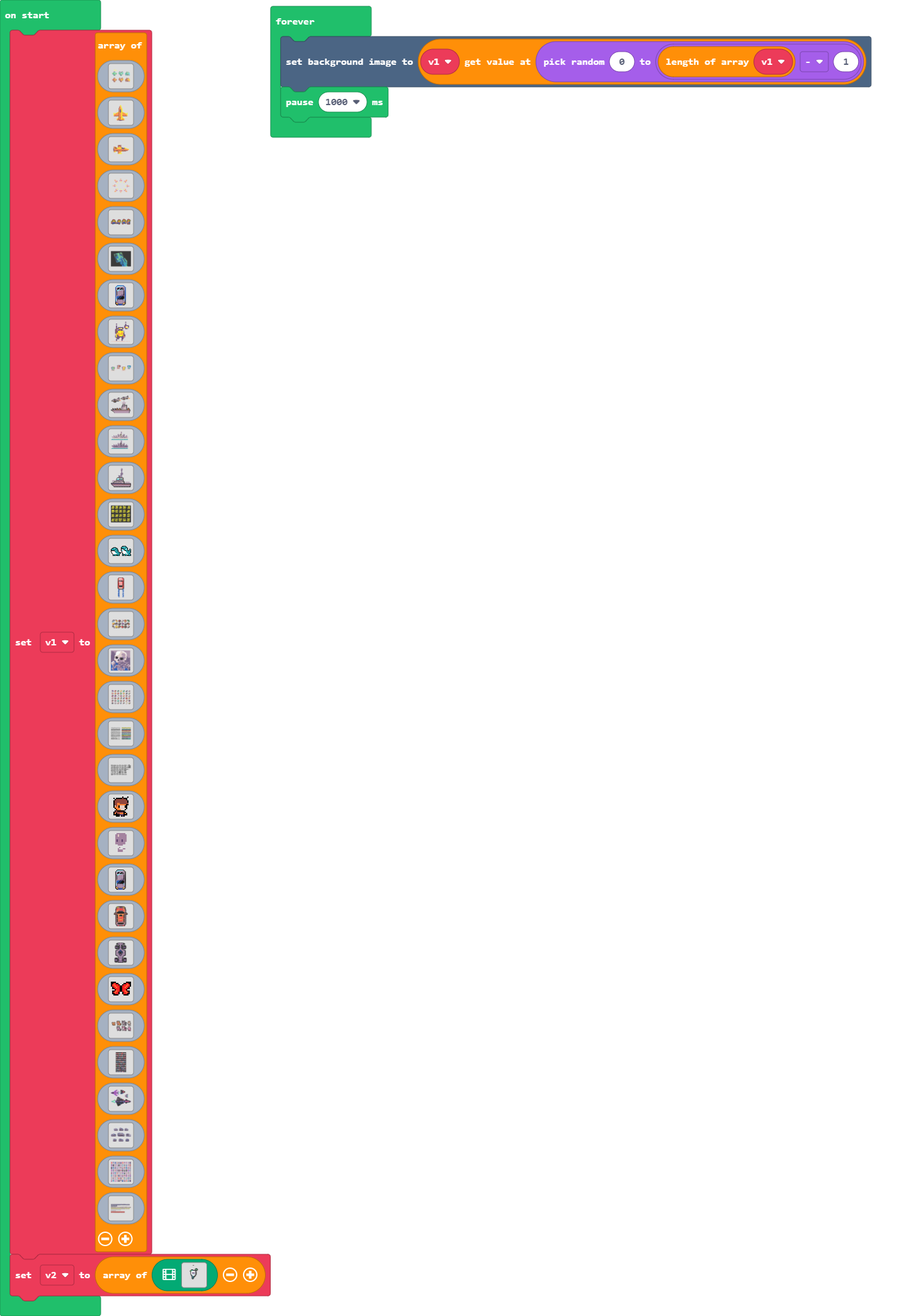
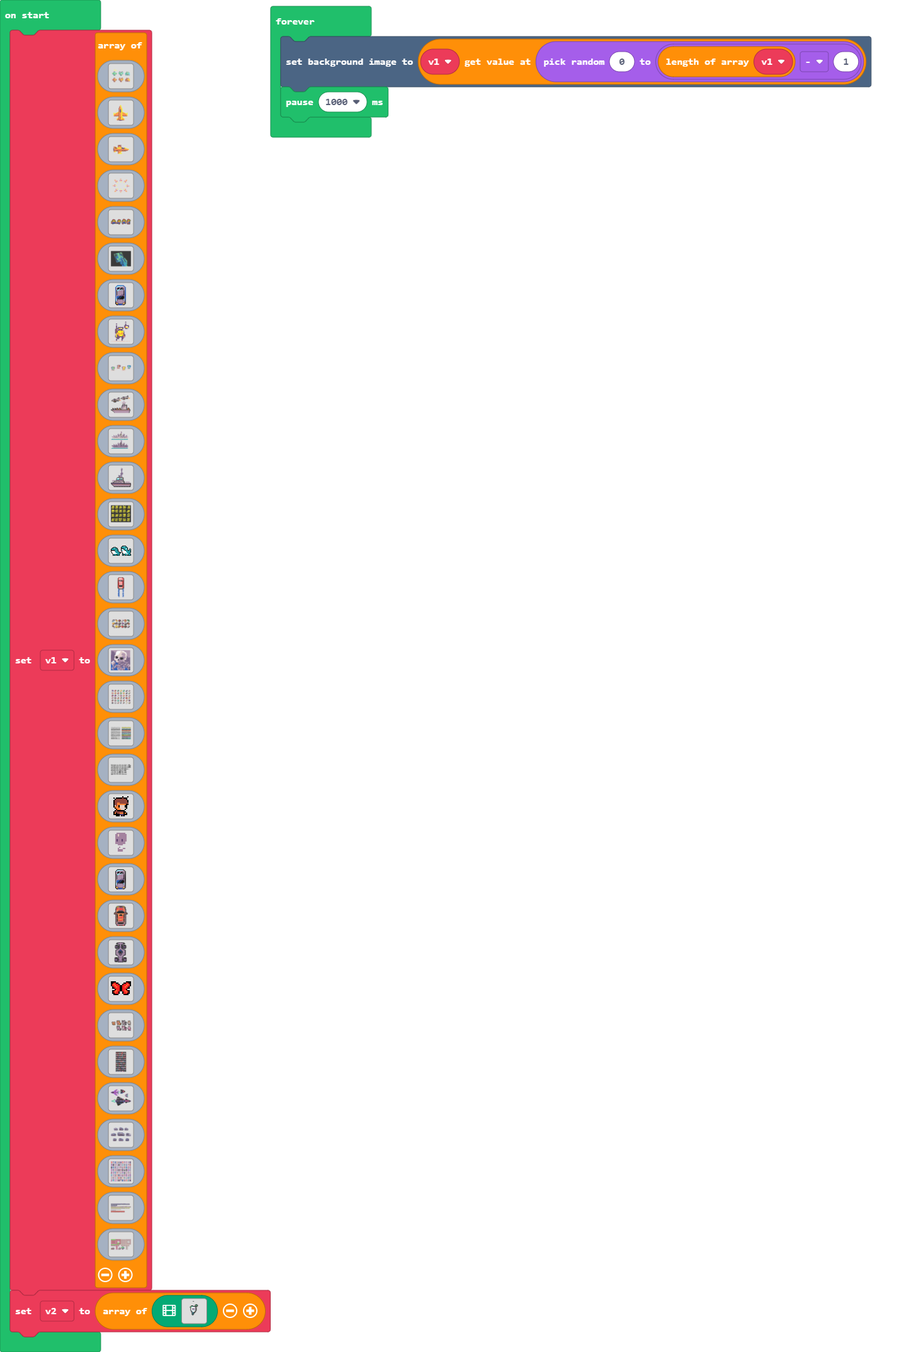
Update main.blocks, main.ts, images.g.jres, images.g.ts

diff --git a/main.ts b/main.ts
@@ -2169,6 +2169,104 @@ img`
     .fffffff2222fff..fffff2222fffff..fff2222fffffff..f2222fffffffff..f2222ffff2222f..f2222fffffffff..fff2222fffffff..fffff2222fffff..fffffff2222fff..fffffffff2222f..fffffff2222fff..................................................................................
     ...fffff2222f........f2222f........f2222fffff....f2222f..ffffff..f2222f..f2222f..f2222f..ffffff....f2222fffff........f2222f........fffff2222f....ffffff..f2222f....fffff2222f....................................................................................
     ...ffffffffff........ffffff........ffffffffff....ffffff..ffffff..ffffff..ffffff..ffffff..ffffff....ffffffffff........ffffff........ffffffffff....ffffff..ffffff....ffffffffff....................................................................................
+    `,
+img`
[16 lines of base64/hex data omitted]
+    3333ec3e33eeeeeeeeeeeeee33eeeeeeeeeeeeee33eecc33eeeeeeee33eecc33................3333ec3e33eeeeeeddddddcbbbbbbbbbbbbbbbbbbbbbbbbbbbbbbbbbbcddddddbbbbbbbbbcdddddd................ddddddcbbbbbbbbb
+    3ccceecc33ee33eeee333eec33ee33eeee333eec33eec333ee333eec33eec333................3ccceecc33ee33eebbbccccbbbbbbbbbbbbbbbbbbbbbbbbbbbbbbbbbbccccbbbbbbbbbbbbccccbbb................bbbccccbbbbbbbbb
+    3cc3eeeeccee333eee333eeeccee333eee333eeeccee3333ee333eeeccee3333................3cc3eeeeccee333edbbcbbbbbbbbbbbbbbbbbbbbbbbbbbbbbbbbbbbbbbbbcbbdbbbbbbbbbbbbcbbd................dbbcbbbbbbbbbbbb
+    33333eeeeeeec33eee33ceeeeeeec33eee33ceeeeeeec333ee33ceeeeeeec333................33333eeeeeeec33ebbbcbbbbbbbbbbbbbbbbbbbbbbbbbbbbbbbbbbbbbbbbcbbbbbbbbbbbbbbbcbbb................bbbcbbbbbbbbbbbb
+    33333e33eeeecceeeeecceeeeeeecceeeeeccee333e3cc33eeeccee333e3cc33................33333e33eeeecceeddbccbbbbbbbbbbbbbbbbbbbbbbbbbbbbbbbbbbbbbbccbddbbbbbbbbbbbccbdd................ddbccbbbbbbbbbbb
+    333ce333eeeeeeeeeeeeeeeeeeeeeeeeeeeeee3333ccecc3eeeeee3333ccecc3................333ce333eeeeeeeedddddddcbbbbbbbbbbbbbbbbbbbbbbbbbbbbbbbbcdddddddbbbbbbbbcddddddd................dddddddcbbbbbbbb
+    3333ec33eeeeeeeeeeeeeeeeeeeeeeeeeeeeee3c33ee3cc3eeeeee3c33ee3cc3................3333ec33eeeeeeeedddddddcbbbbbbbbbbbbbbbbbbbbbbbbbbbbbbbbcdddddddbbbbbbbbcddddddd................dddddddcbbbbbbbb
+    3c33ecceee333eeeeeeeeeeeee333eeeeeeeeeecceee3333eeeeeeecceee3333................3c33ecceee333eeedddbbbbcbbbbbbbbbbbbbbbbbbbbbbbbbbbbbbbbcbbbbdddbbbbbbbbcbbbbddd................dddbbbbcbbbbbbbb
+    3ccceeeeee333eee33eeeeeeee333eee33eeeeeeeee3cc3333eeeeeeeee3cc33................3ccceeeeee333eeebbbbbcccbbbbbbbbbbbbbbbbbbbbbbbbbbbbbbbbcccbbbbbbbbbbbbbcccbbbbb................bbbbbcccbbbbbbbb
+    333ceee33e33cee333eee333ee33cee333eee333eee3c33333eee333eee3c333................333ceee33e33cee3bbbbbcbbbbbbbbbbbbbbbbbbbbbbbbbbbbbbbbbbbbcbbbbbbbbbbbbbbbcbbbbb................bbbbbcbbbbbbbbbb
+    333cee333eeccee3ccee3333eeeccee3ccee333333eee333ccee333333eee333................333cee333eeccee3bbbbccbbbbbbbbbbbbbbbbbbbbbbbbbbbbbbbbbbbbccbbbbbbbbbbbbbbccbbbb................bbbbccbbbbbbbbbb
+    3333c3333eeeeeeeeeeec333eeeeeeeeeeeec3333ceeccc3eeeec3333ceeccc3................3333c3333eeeeeeedddbcbbbbbbbbbbbbbbbbbbbbbbbbbbbbbbbbbbbbbbcbdddbbbbbbbbbbbcbddd................dddbcbbbbbbbbbbb
+    3cc33c33cee33eeeeeeeec33eee33eeeeeeeec33ceeeccc3eeeeec33ceeeccc3................3cc33c33cee33eeebbbbcbbbbbbbbbbbbbbbbbbbbbbbbbbbbbbbbbbbbbbcbbbbbbbbbbbbbbbcbbbb................bbbbcbbbbbbbbbbb
+    3c333ccceee333eee33eeccceee333eee33eeccceee33333e33eeccceee33333................3c333ccceee333eebdddddcbbbbbbbbbbbbbbbbbbbbbbbbbbbbbbbbbbcdddddbbbbbbbbbbcdddddb................bdddddcbbbbbbbbb
+    333ceeeeeeeecceee3ceeeeeeeeecceee3ceeeeeeee33c33e3ceeeeeeee33c33................333ceeeeeeeecceeddddddcbbbbbbbbbbbbbbbbbbbbbbbbbbbbbbbbbbcddddddbbbbbbbbbcdddddd................ddddddcbbbbbbbbb
+    3333e33eeeeeeeeeeeeeeeeeeeeeeeeeeeeeeeeeeeecce33eeeeeeeeeeecce33................3333e33eeeeeeeeeddddddcbbbbbbbbbbbbbbbbbbbbbbbbbbbbbbbbbbcddddddbbbbbbbbbcdddddd................ddddddcbbbbbbbbb
[16 lines of base64/hex data omitted]
+    7777777777777777777777777777777777777777777777777777777777777777777777777777777.................dddddddddddddddddddbdddddddddddddddbdddddddddddddddddddbbddddddddddddddbbddddddd................
+    77777777777777777777777777777777777777777777777c777777777777777c777777777777777c................ddddddddbbbbdddddbbbddddbbbbdddddbbbddddbddddbbbddddddddbddddbbbddddddddbddddbbb................
+    c777777777777777777777777777777777777777777777ccc7777777777777ccc7777777777777cc................bbbddddbbddbdddbbbbbddbbbddbdddbbbbbddbbbddddbddbbbddddbbddddbddbbbddddbbddddbdd................
+    cc7777777777777777777777777777777777777777777cc3cc77777777777cc3cc77777777777cc3................bbbddddbbbbbdddbcccbddbbbbbbdddbcccbddbbbbbbdbddbbbddddbbbbbdbddbbbddddbbbbbdbdd................
+    3e777777777777777777777777777777777777777777cce33e7777777777cce33e7777777777cce3................bbbddddbcccbdddcbbbcddbbcccbdddcbbbcddbbbcccbbbdbbbddddbcbbbbbbdbbbddddbcbbbbbbd................
+    ccc7777777777777777777777777777777777777777c7c33ccc77777777c7c33ccc77777777c7c33................dbbccbbbbbbcdddcbbbcccccbbbcdddcbbbcccccccbcbbbddbbbbbbcccccbbbddbbbbbbcccccbbbd................
+    ccecc7c77777c777c7cc77c77777c777c7cc77c77ccc77c3ccecc7c77ccc77c3ccecc7c77ccc77c3................dbbbbcccbbbcccccbbbbbbbbbbbcccccbbbbbbbbbbbcbddddbbbbcccbbbcbddddbbbbcccbbbcbddd................
+    33eecccc77ccc77ccc777ccc77ccc77ccc777ccc77ccce3333eecccc7cccc33333eecccc7cccc333................dddddcbbbbbbbbbbbbbbbbbbbbbbbbbbbbbbbbbbbbbcbbbbdddddcbbbbbcbbbbdddddcbbbbbcbbbb................
+    c3cccccc7ccccccccc77cccc7ccccccccc77cccc7cee333333ce3ccccceec333333eeeeeee333c33................bbbbbccbbbbbbbbbbbbbbbbbbbbbbbbbbbbbbbbbbbbcddddbbbbbcbbbbcbbbbbbbbbbccbbcbbdddd................
+    33cce333ccccecccccceeeccccccecccccceeeccecc3ccc33cce33eeeeeeec3333cce333ecc3ccc3................ddbbbbcbbbbbbbbbbbbbbbbbbbbbbbbbbbbbbbbbbcbbddddbbbbbcbbbbcbbbbbddbbbbcbbcbbdddd................
+    cccc3333eecc3333ccee3333eecc3333ccee3333eccc33cc333cee3333eee333cccc3333eccc33cc................ddddbbcbbbbcdddcbbbbbbbcbbbcdddcbbbbbbbcbcbbbdddbbbbccbbbbccbbbbddddbbcbbcbbbddd................
+    3333c333cee3333c3333c333cee3333c3333c333cee3333c3333c3333ceeccc33333c333cee3333c................ddddbbcccbbcddbcbbbbddbccbbcddbcbbbbddbccccbccbbdddbcbbbbbbcbdddddddbbccbccbbccb................
+    3333ec33c3e3333c3333ec33c3e3333c3333ec33c3e3333c3cc33c33ceeeccc33333ec33c3e3333c................ddddbbcbbbbcddbbcccbddbbbbbcddbbcccbddbbbbcbbdddbbbbcbbbbbbcbbbbdbbbbbcbddcbbddd................
+    333cecccc3c3333c333cecccc3c3333c333cecccc3c3333c3c333ccceee33333333cecccc3c3333c................ddbcccbbbddcbdbbbbbbddbbbddcbdbbbbbbddbbbbbbbbbdbdddddcbbcdddddbddbcccbbbdbbbbbd................
+    c33ccccc33cccccce33ccccc33cccccce33ccccc33cccccc333ceeeeeee33c33c33ccccc33cccccc................ddcddbbbbccbbddddbbcddddbccbbddddbbcbdddbbbbbbddddddddcbbcddddddddcddbbbbbcbbbdd................
+    cccccccccccccccccccccccccccccccccccccccccccccccc3333e33eeeecce33cccccccccccccccc................bbcdbbbbbbbbbbbbbbbcccbbbbbbbbbbbbbcccbbbbcccbddddddddcbbcddddddbbcdbbbbbbcccbdd................
+    ................................................3333ec3e33eecc33................................................................................ddddddcbbcdddddd................................
+    ................................................3ccceecc33eec333................................................................................bbbccccbbccccbbb................................
+    ................................................3cc3eeeeccee3333................................................................................dbbcbbbbbbbbcbbd................................
+    ................................................33333eeeeeeec333................................................................................bbbcbbbbbbbbcbbb................................
+    ................................................33333e3333e3cc33................................................................................ddbccbbbbbbccbdd................................
+    ................................................333ce33333ccecc3............................................ffffffff............................dddddddccddddddd................................
+    ................................................3333ec3333ee3cc3..........................................ff66666cccf...........................dddddddccddddddd................................
+    ................................................3c33ecceceee3333.........................................f66666767cccff.........................dddbbbbccbbbbddd................................
+    ................................................3ccceeeeeee3cc33.........................................f6776777776666ff.......................bbbbbccccccbbbbb................................
+    ................................................333ceee3eee3c333........................................f67777676eee67777f......................bbbbbcbbbbcbbbbb................................
+    ................................................333cee3333eee333.......................................f766776666eee777777f.....................bbbbccbbbbccbbbb................................
+    ................................................3333c3333ceeccc3......................................f7777766667eee777777f.....................dddbcbbbbbbcbddd................................
+    ................................................3cc33c33ceeeccc3.....................................ff7777776677777777777cf....................bbbbcbbbbbbcbbbb................................
+    ................................................3c333ccceee33333....................................f6677777767777777777776bf...................bdddddcbbcdddddb................................
+    ................................................333ceeeeeee33c33..................ffff.............f77777777766777777777766c6f..................ddddddcbbcdddddd................................
+    ................................................3333e33eeeecce33................ffddddfff.........f7777777777667777776676666c6f.................ddddddcbbcdddddd................................
+    .................fffffffffffff..................3333ec3e33eecc33.............fffdddddbcccf........f777777777eee7777766777666ccf.................ddddddcbbcdddddd................................
+    ........ff.ff...ff3333eeeeeecff.................3ccceecc33eec333............fdcccdddbbbcccf.......f777777676eee67666766766666cf.................bbbccccbbccccbbb................................
+    .....fffd3fe3f..feeeccccecccccf.................3cc3eeeeccee3333...........fddddbccdbbbcccf.......f777777666eeec66677766666666f.................dbbcbbbbbbbbcbbd................................
+    .....fd3ede3cef.fbdddddddbdbbbf.................33333eeeeeeec333..........fddbbbbccddddcccf........f7777eee666cc666676ccc6666cf.................bbbcbbbbbbbbcbbb................................
+    ......ffceccff..fbbdddbbbbbbbbf.................33333e3333e3cc33.........fbbbbbbbcccccccccf.........f677eee6666ccc6666ccc6666bf.................ddbccbbbbbbccbdd................................
+    .....ffdcccbf...ffcccccccccccff.................333ce33333ccecc3.........fbbbbbbbdcbbbcccccf........fcc7eee666ccc666c6ccccc6c6f.................dddddddccddddddd................................
+    ....fd3ee3ccf...f33333eeeeecccf.................33eeec333eeeee33........fbbbbddddcbbbbcccccf.........fc666c666cccc6cccc666ccc6f.................dddddddccddddddd................................
+    ....fceeee3ccf..fee3ccceccccccf.................3e3eeeccee333333.......fbbbbdccccbbbbbcccccf..........fc6ccc6ccccc66cc666ccc6f..................dddbbbbccbbbbddd................................
+    ..ff3ee5eeeecff.feccecccccccccf.................333eeeeeee333c33.......fbbbbbcbbbbbbbbcccccf...........fccccccccccccccc6ccc6f...................bbbbbcccccbbdddd................................
+    .fedee555ecccbf.feeeeeeeeeceeef.................33cce333ecc3ccc3......fbbbbbbbbbbbbbbbcccccf............fffccffccbccccccccbf....................ddbbbbcbbcbbdddd................................
+    fed3ee55eeecccf.fbdddddddbdbbbf.................cccc3333eccc33cc......fbbbbbbbbbbbbbbbcccccf..............fccffeccbbcbbbbbf.....................ddddbbcbbcbbbddd................................
+    f3eeee555eebcff.fbbdddbbbbbbbbf.................3333c333cee3333c......fccbbbbbbbbbbbbccccccf...............feececcffffffff......................ddddbbcbbccbbccb................................
+    f3eeeee55ebcccf.ffcccccccccccff.................3333ec33c3e3333c......fcccbccccccbbbbccccccf................ffccccf.............................dbbbbbcbddcbbddd................................
+    feeeee555ccccbf.fcccccccccccccf.................333cecccc3c3333c......fcccbbbbbbbbbbbccccccf................ffecccf.............................ddbcccbbbdbbbbbd................................
+    .feeccc5cccbbcf.ffcccccccccccff.................c33ccccc33cccccc.......fccbbbbbbccccccccccf................ffeeccfff............................ddcddbbbbbcbbbdd................................
+    .fffffffffffff...fffffffffffff..................cccccccccccccccc........ffffffffffffffffff.................feecccccf............................bbcdbbbbbbcccbdd................................
     `
 ]
 let v2 = [[img`

diff --git a/images.g.ts b/images.g.ts
@@ -2433,6 +2433,104 @@ beaaaaaa.....97666666.....beaaaaaa.....1dbbbbbb.....ccffffff.....ddddbbbb.....66
 ...fffff2222f........f2222f........f2222fffff....f2222f..ffffff..f2222f..f2222f..f2222f..ffffff....f2222fffff........f2222f........fffff2222f....ffffff..f2222f....fffff2222f....................................................................................
 ...ffffffffff........ffffff........ffffffffff....ffffff..ffffff..ffffff..ffffff..ffffff..ffffff....ffffffffff........ffffff........ffffffffff....ffffff..ffffff....ffffffffff....................................................................................
 `;
+            case "image6":return img`
[16 lines of base64/hex data omitted]
+3333ec3e33eeeeeeeeeeeeee33eeeeeeeeeeeeee33eecc33eeeeeeee33eecc33................3333ec3e33eeeeeeddddddcbbbbbbbbbbbbbbbbbbbbbbbbbbbbbbbbbbcddddddbbbbbbbbbcdddddd................ddddddcbbbbbbbbb
+3ccceecc33ee33eeee333eec33ee33eeee333eec33eec333ee333eec33eec333................3ccceecc33ee33eebbbccccbbbbbbbbbbbbbbbbbbbbbbbbbbbbbbbbbbccccbbbbbbbbbbbbccccbbb................bbbccccbbbbbbbbb
+3cc3eeeeccee333eee333eeeccee333eee333eeeccee3333ee333eeeccee3333................3cc3eeeeccee333edbbcbbbbbbbbbbbbbbbbbbbbbbbbbbbbbbbbbbbbbbbbcbbdbbbbbbbbbbbbcbbd................dbbcbbbbbbbbbbbb
+33333eeeeeeec33eee33ceeeeeeec33eee33ceeeeeeec333ee33ceeeeeeec333................33333eeeeeeec33ebbbcbbbbbbbbbbbbbbbbbbbbbbbbbbbbbbbbbbbbbbbbcbbbbbbbbbbbbbbbcbbb................bbbcbbbbbbbbbbbb
+33333e33eeeecceeeeecceeeeeeecceeeeeccee333e3cc33eeeccee333e3cc33................33333e33eeeecceeddbccbbbbbbbbbbbbbbbbbbbbbbbbbbbbbbbbbbbbbbccbddbbbbbbbbbbbccbdd................ddbccbbbbbbbbbbb
+333ce333eeeeeeeeeeeeeeeeeeeeeeeeeeeeee3333ccecc3eeeeee3333ccecc3................333ce333eeeeeeeedddddddcbbbbbbbbbbbbbbbbbbbbbbbbbbbbbbbbcdddddddbbbbbbbbcddddddd................dddddddcbbbbbbbb
+3333ec33eeeeeeeeeeeeeeeeeeeeeeeeeeeeee3c33ee3cc3eeeeee3c33ee3cc3................3333ec33eeeeeeeedddddddcbbbbbbbbbbbbbbbbbbbbbbbbbbbbbbbbcdddddddbbbbbbbbcddddddd................dddddddcbbbbbbbb
+3c33ecceee333eeeeeeeeeeeee333eeeeeeeeeecceee3333eeeeeeecceee3333................3c33ecceee333eeedddbbbbcbbbbbbbbbbbbbbbbbbbbbbbbbbbbbbbbcbbbbdddbbbbbbbbcbbbbddd................dddbbbbcbbbbbbbb
+3ccceeeeee333eee33eeeeeeee333eee33eeeeeeeee3cc3333eeeeeeeee3cc33................3ccceeeeee333eeebbbbbcccbbbbbbbbbbbbbbbbbbbbbbbbbbbbbbbbcccbbbbbbbbbbbbbcccbbbbb................bbbbbcccbbbbbbbb
+333ceee33e33cee333eee333ee33cee333eee333eee3c33333eee333eee3c333................333ceee33e33cee3bbbbbcbbbbbbbbbbbbbbbbbbbbbbbbbbbbbbbbbbbbcbbbbbbbbbbbbbbbcbbbbb................bbbbbcbbbbbbbbbb
+333cee333eeccee3ccee3333eeeccee3ccee333333eee333ccee333333eee333................333cee333eeccee3bbbbccbbbbbbbbbbbbbbbbbbbbbbbbbbbbbbbbbbbbccbbbbbbbbbbbbbbccbbbb................bbbbccbbbbbbbbbb
+3333c3333eeeeeeeeeeec333eeeeeeeeeeeec3333ceeccc3eeeec3333ceeccc3................3333c3333eeeeeeedddbcbbbbbbbbbbbbbbbbbbbbbbbbbbbbbbbbbbbbbbcbdddbbbbbbbbbbbcbddd................dddbcbbbbbbbbbbb
+3cc33c33cee33eeeeeeeec33eee33eeeeeeeec33ceeeccc3eeeeec33ceeeccc3................3cc33c33cee33eeebbbbcbbbbbbbbbbbbbbbbbbbbbbbbbbbbbbbbbbbbbbcbbbbbbbbbbbbbbbcbbbb................bbbbcbbbbbbbbbbb
+3c333ccceee333eee33eeccceee333eee33eeccceee33333e33eeccceee33333................3c333ccceee333eebdddddcbbbbbbbbbbbbbbbbbbbbbbbbbbbbbbbbbbcdddddbbbbbbbbbbcdddddb................bdddddcbbbbbbbbb
+333ceeeeeeeecceee3ceeeeeeeeecceee3ceeeeeeee33c33e3ceeeeeeee33c33................333ceeeeeeeecceeddddddcbbbbbbbbbbbbbbbbbbbbbbbbbbbbbbbbbbcddddddbbbbbbbbbcdddddd................ddddddcbbbbbbbbb
+3333e33eeeeeeeeeeeeeeeeeeeeeeeeeeeeeeeeeeeecce33eeeeeeeeeeecce33................3333e33eeeeeeeeeddddddcbbbbbbbbbbbbbbbbbbbbbbbbbbbbbbbbbbcddddddbbbbbbbbbcdddddd................ddddddcbbbbbbbbb
[16 lines of base64/hex data omitted]
+7777777777777777777777777777777777777777777777777777777777777777777777777777777.................dddddddddddddddddddbdddddddddddddddbdddddddddddddddddddbbddddddddddddddbbddddddd................
+77777777777777777777777777777777777777777777777c777777777777777c777777777777777c................ddddddddbbbbdddddbbbddddbbbbdddddbbbddddbddddbbbddddddddbddddbbbddddddddbddddbbb................
+c777777777777777777777777777777777777777777777ccc7777777777777ccc7777777777777cc................bbbddddbbddbdddbbbbbddbbbddbdddbbbbbddbbbddddbddbbbddddbbddddbddbbbddddbbddddbdd................
+cc7777777777777777777777777777777777777777777cc3cc77777777777cc3cc77777777777cc3................bbbddddbbbbbdddbcccbddbbbbbbdddbcccbddbbbbbbdbddbbbddddbbbbbdbddbbbddddbbbbbdbdd................
+3e777777777777777777777777777777777777777777cce33e7777777777cce33e7777777777cce3................bbbddddbcccbdddcbbbcddbbcccbdddcbbbcddbbbcccbbbdbbbddddbcbbbbbbdbbbddddbcbbbbbbd................
+ccc7777777777777777777777777777777777777777c7c33ccc77777777c7c33ccc77777777c7c33................dbbccbbbbbbcdddcbbbcccccbbbcdddcbbbcccccccbcbbbddbbbbbbcccccbbbddbbbbbbcccccbbbd................
+ccecc7c77777c777c7cc77c77777c777c7cc77c77ccc77c3ccecc7c77ccc77c3ccecc7c77ccc77c3................dbbbbcccbbbcccccbbbbbbbbbbbcccccbbbbbbbbbbbcbddddbbbbcccbbbcbddddbbbbcccbbbcbddd................
+33eecccc77ccc77ccc777ccc77ccc77ccc777ccc77ccce3333eecccc7cccc33333eecccc7cccc333................dddddcbbbbbbbbbbbbbbbbbbbbbbbbbbbbbbbbbbbbbcbbbbdddddcbbbbbcbbbbdddddcbbbbbcbbbb................
+c3cccccc7ccccccccc77cccc7ccccccccc77cccc7cee333333ce3ccccceec333333eeeeeee333c33................bbbbbccbbbbbbbbbbbbbbbbbbbbbbbbbbbbbbbbbbbbcddddbbbbbcbbbbcbbbbbbbbbbccbbcbbdddd................
+33cce333ccccecccccceeeccccccecccccceeeccecc3ccc33cce33eeeeeeec3333cce333ecc3ccc3................ddbbbbcbbbbbbbbbbbbbbbbbbbbbbbbbbbbbbbbbbcbbddddbbbbbcbbbbcbbbbbddbbbbcbbcbbdddd................
+cccc3333eecc3333ccee3333eecc3333ccee3333eccc33cc333cee3333eee333cccc3333eccc33cc................ddddbbcbbbbcdddcbbbbbbbcbbbcdddcbbbbbbbcbcbbbdddbbbbccbbbbccbbbbddddbbcbbcbbbddd................
+3333c333cee3333c3333c333cee3333c3333c333cee3333c3333c3333ceeccc33333c333cee3333c................ddddbbcccbbcddbcbbbbddbccbbcddbcbbbbddbccccbccbbdddbcbbbbbbcbdddddddbbccbccbbccb................
+3333ec33c3e3333c3333ec33c3e3333c3333ec33c3e3333c3cc33c33ceeeccc33333ec33c3e3333c................ddddbbcbbbbcddbbcccbddbbbbbcddbbcccbddbbbbcbbdddbbbbcbbbbbbcbbbbdbbbbbcbddcbbddd................
+333cecccc3c3333c333cecccc3c3333c333cecccc3c3333c3c333ccceee33333333cecccc3c3333c................ddbcccbbbddcbdbbbbbbddbbbddcbdbbbbbbddbbbbbbbbbdbdddddcbbcdddddbddbcccbbbdbbbbbd................
+c33ccccc33cccccce33ccccc33cccccce33ccccc33cccccc333ceeeeeee33c33c33ccccc33cccccc................ddcddbbbbccbbddddbbcddddbccbbddddbbcbdddbbbbbbddddddddcbbcddddddddcddbbbbbcbbbdd................
+cccccccccccccccccccccccccccccccccccccccccccccccc3333e33eeeecce33cccccccccccccccc................bbcdbbbbbbbbbbbbbbbcccbbbbbbbbbbbbbcccbbbbcccbddddddddcbbcddddddbbcdbbbbbbcccbdd................
+................................................3333ec3e33eecc33................................................................................ddddddcbbcdddddd................................
+................................................3ccceecc33eec333................................................................................bbbccccbbccccbbb................................
+................................................3cc3eeeeccee3333................................................................................dbbcbbbbbbbbcbbd................................
+................................................33333eeeeeeec333................................................................................bbbcbbbbbbbbcbbb................................
+................................................33333e3333e3cc33................................................................................ddbccbbbbbbccbdd................................
+................................................333ce33333ccecc3............................................ffffffff............................dddddddccddddddd................................
+................................................3333ec3333ee3cc3..........................................ff66666cccf...........................dddddddccddddddd................................
+................................................3c33ecceceee3333.........................................f66666767cccff.........................dddbbbbccbbbbddd................................
+................................................3ccceeeeeee3cc33.........................................f6776777776666ff.......................bbbbbccccccbbbbb................................
+................................................333ceee3eee3c333........................................f67777676eee67777f......................bbbbbcbbbbcbbbbb................................
+................................................333cee3333eee333.......................................f766776666eee777777f.....................bbbbccbbbbccbbbb................................
+................................................3333c3333ceeccc3......................................f7777766667eee777777f.....................dddbcbbbbbbcbddd................................
+................................................3cc33c33ceeeccc3.....................................ff7777776677777777777cf....................bbbbcbbbbbbcbbbb................................
+................................................3c333ccceee33333....................................f6677777767777777777776bf...................bdddddcbbcdddddb................................
+................................................333ceeeeeee33c33..................ffff.............f77777777766777777777766c6f..................ddddddcbbcdddddd................................
+................................................3333e33eeeecce33................ffddddfff.........f7777777777667777776676666c6f.................ddddddcbbcdddddd................................
+.................fffffffffffff..................3333ec3e33eecc33.............fffdddddbcccf........f777777777eee7777766777666ccf.................ddddddcbbcdddddd................................
+........ff.ff...ff3333eeeeeecff.................3ccceecc33eec333............fdcccdddbbbcccf.......f777777676eee67666766766666cf.................bbbccccbbccccbbb................................
+.....fffd3fe3f..feeeccccecccccf.................3cc3eeeeccee3333...........fddddbccdbbbcccf.......f777777666eeec66677766666666f.................dbbcbbbbbbbbcbbd................................
+.....fd3ede3cef.fbdddddddbdbbbf.................33333eeeeeeec333..........fddbbbbccddddcccf........f7777eee666cc666676ccc6666cf.................bbbcbbbbbbbbcbbb................................
+......ffceccff..fbbdddbbbbbbbbf.................33333e3333e3cc33.........fbbbbbbbcccccccccf.........f677eee6666ccc6666ccc6666bf.................ddbccbbbbbbccbdd................................
+.....ffdcccbf...ffcccccccccccff.................333ce33333ccecc3.........fbbbbbbbdcbbbcccccf........fcc7eee666ccc666c6ccccc6c6f.................dddddddccddddddd................................
+....fd3ee3ccf...f33333eeeeecccf.................33eeec333eeeee33........fbbbbddddcbbbbcccccf.........fc666c666cccc6cccc666ccc6f.................dddddddccddddddd................................
+....fceeee3ccf..fee3ccceccccccf.................3e3eeeccee333333.......fbbbbdccccbbbbbcccccf..........fc6ccc6ccccc66cc666ccc6f..................dddbbbbccbbbbddd................................
+..ff3ee5eeeecff.feccecccccccccf.................333eeeeeee333c33.......fbbbbbcbbbbbbbbcccccf...........fccccccccccccccc6ccc6f...................bbbbbcccccbbdddd................................
+.fedee555ecccbf.feeeeeeeeeceeef.................33cce333ecc3ccc3......fbbbbbbbbbbbbbbbcccccf............fffccffccbccccccccbf....................ddbbbbcbbcbbdddd................................
+fed3ee55eeecccf.fbdddddddbdbbbf.................cccc3333eccc33cc......fbbbbbbbbbbbbbbbcccccf..............fccffeccbbcbbbbbf.....................ddddbbcbbcbbbddd................................
+f3eeee555eebcff.fbbdddbbbbbbbbf.................3333c333cee3333c......fccbbbbbbbbbbbbccccccf...............feececcffffffff......................ddddbbcbbccbbccb................................
+f3eeeee55ebcccf.ffcccccccccccff.................3333ec33c3e3333c......fcccbccccccbbbbccccccf................ffccccf.............................dbbbbbcbddcbbddd................................
+feeeee555ccccbf.fcccccccccccccf.................333cecccc3c3333c......fcccbbbbbbbbbbbccccccf................ffecccf.............................ddbcccbbbdbbbbbd................................
+.feeccc5cccbbcf.ffcccccccccccff.................c33ccccc33cccccc.......fccbbbbbbccccccccccf................ffeeccfff............................ddcddbbbbbcbbbdd................................
+.fffffffffffff...fffffffffffff..................cccccccccccccccc........ffffffffffffffffff.................feecccccf............................bbcdbbbbbbcccbdd................................
+`;
         }
         return null;
     })
